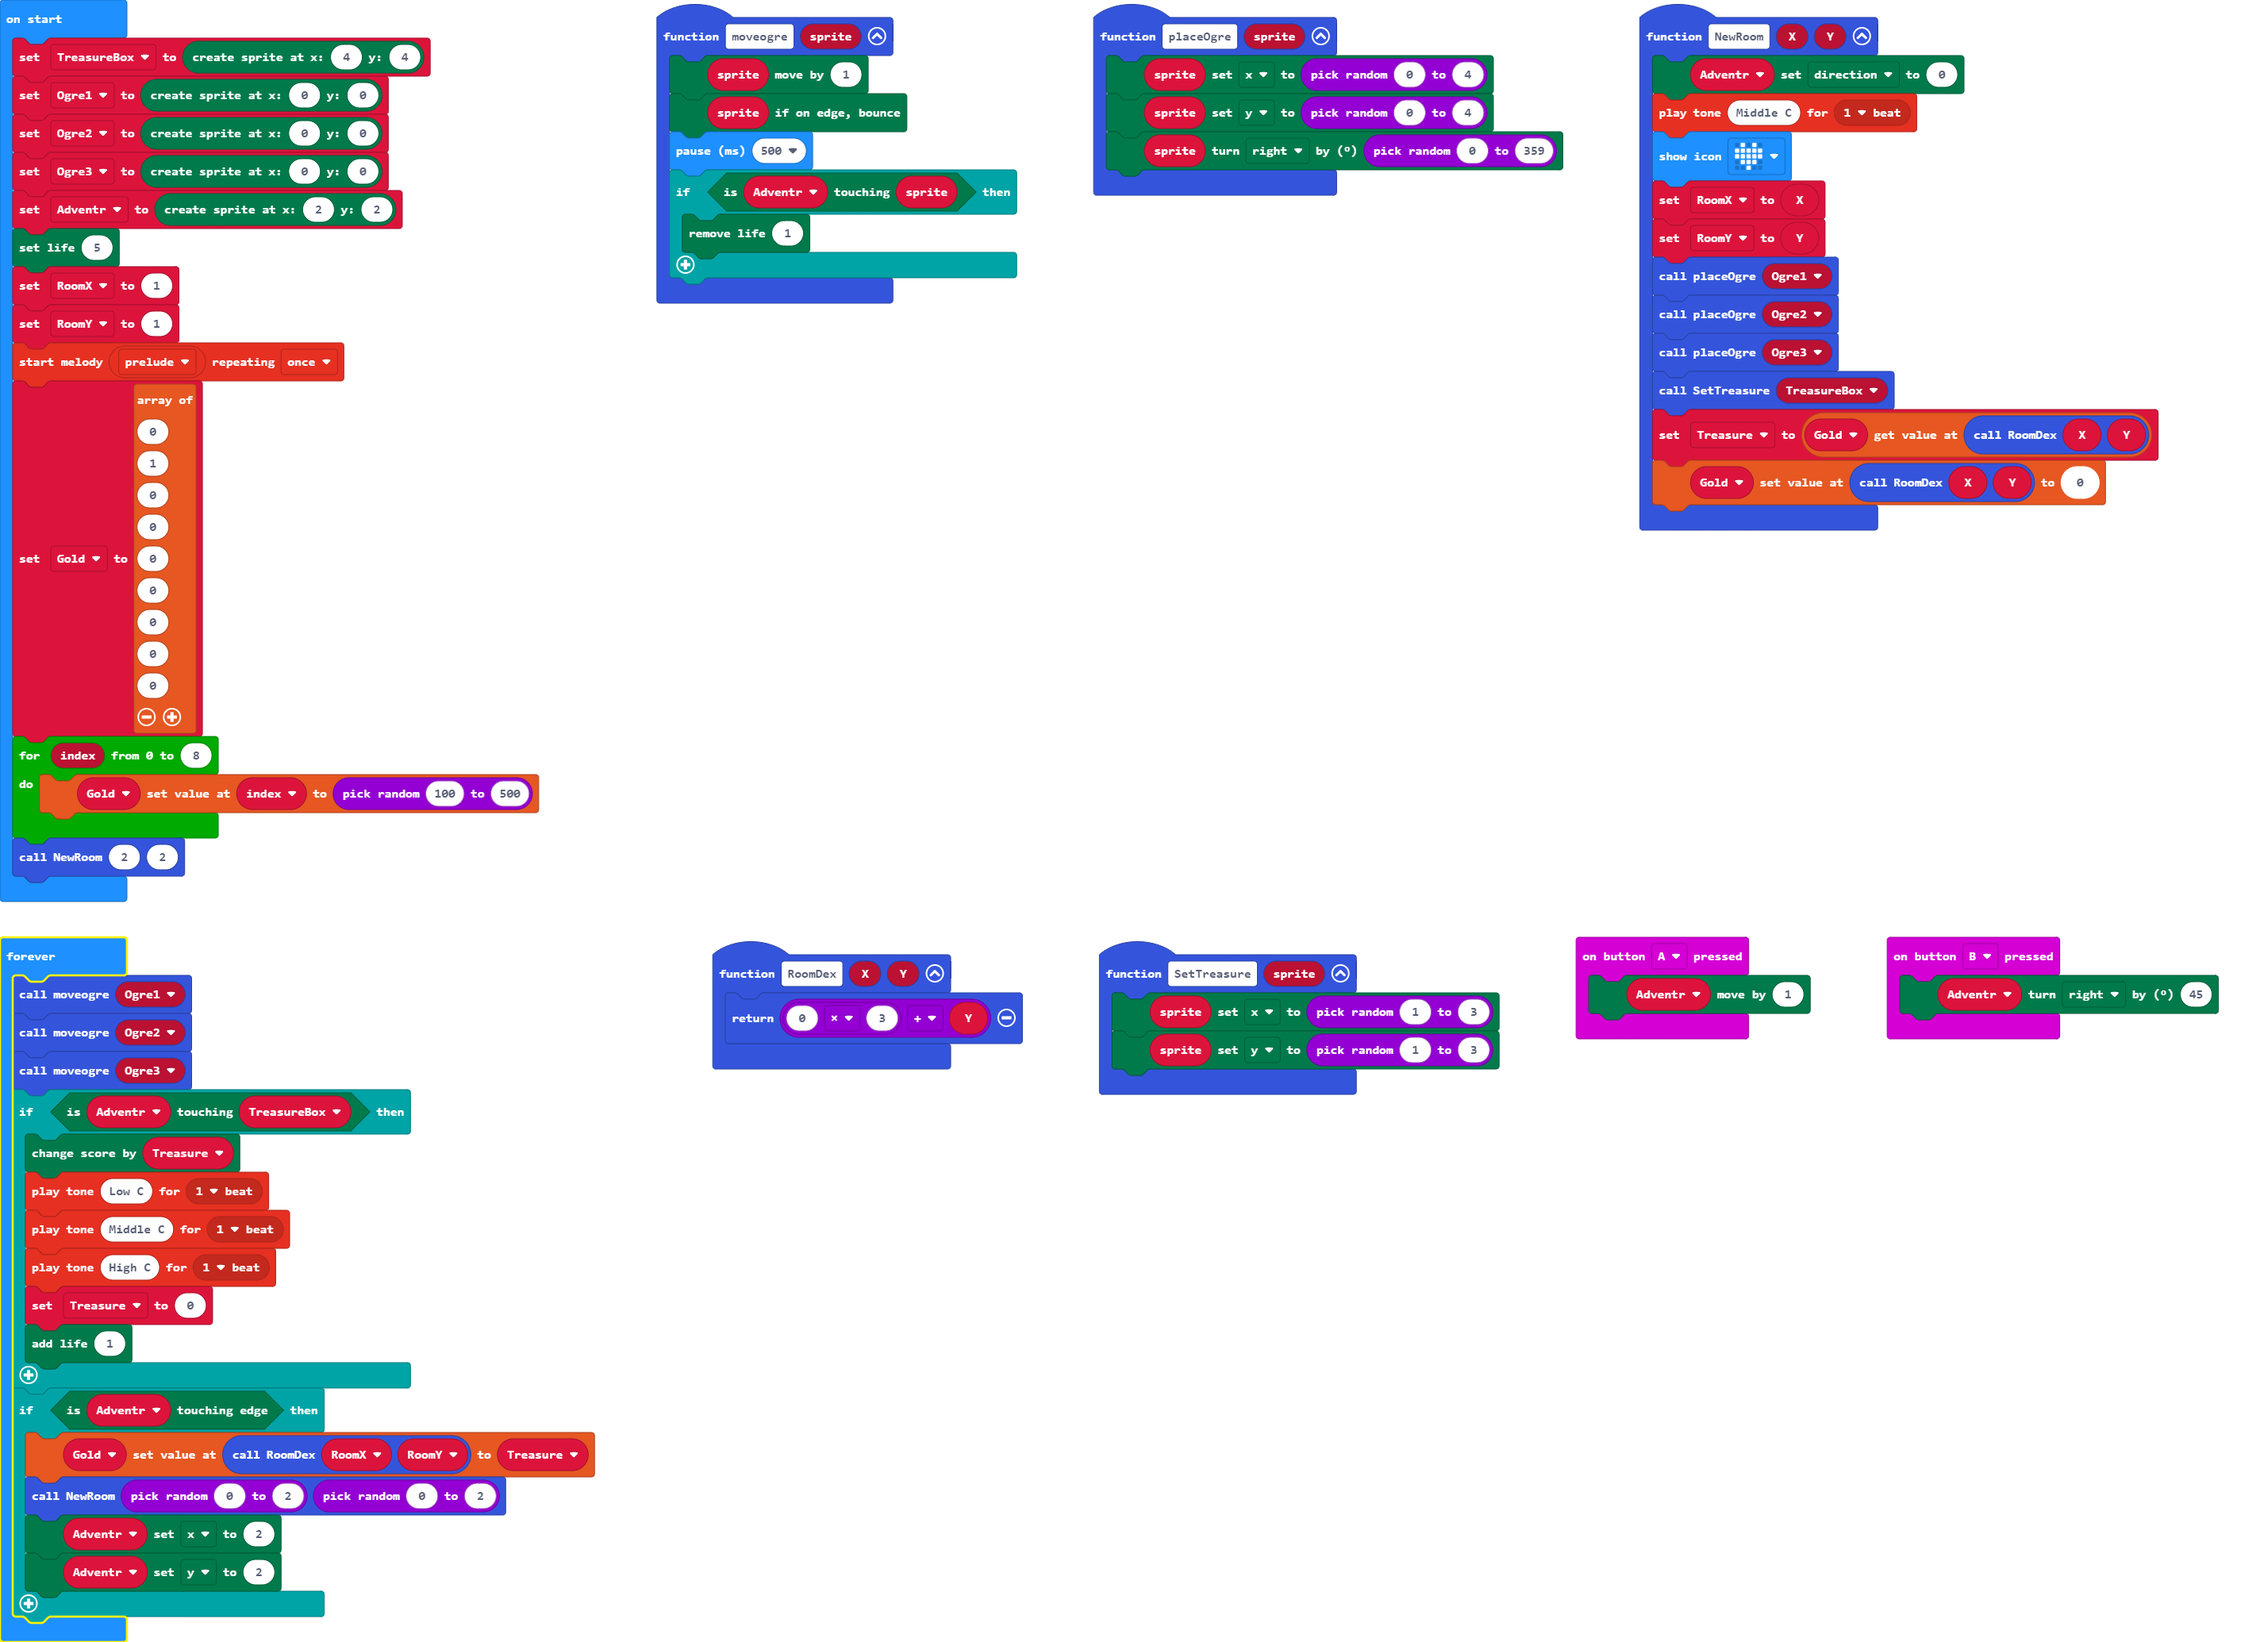
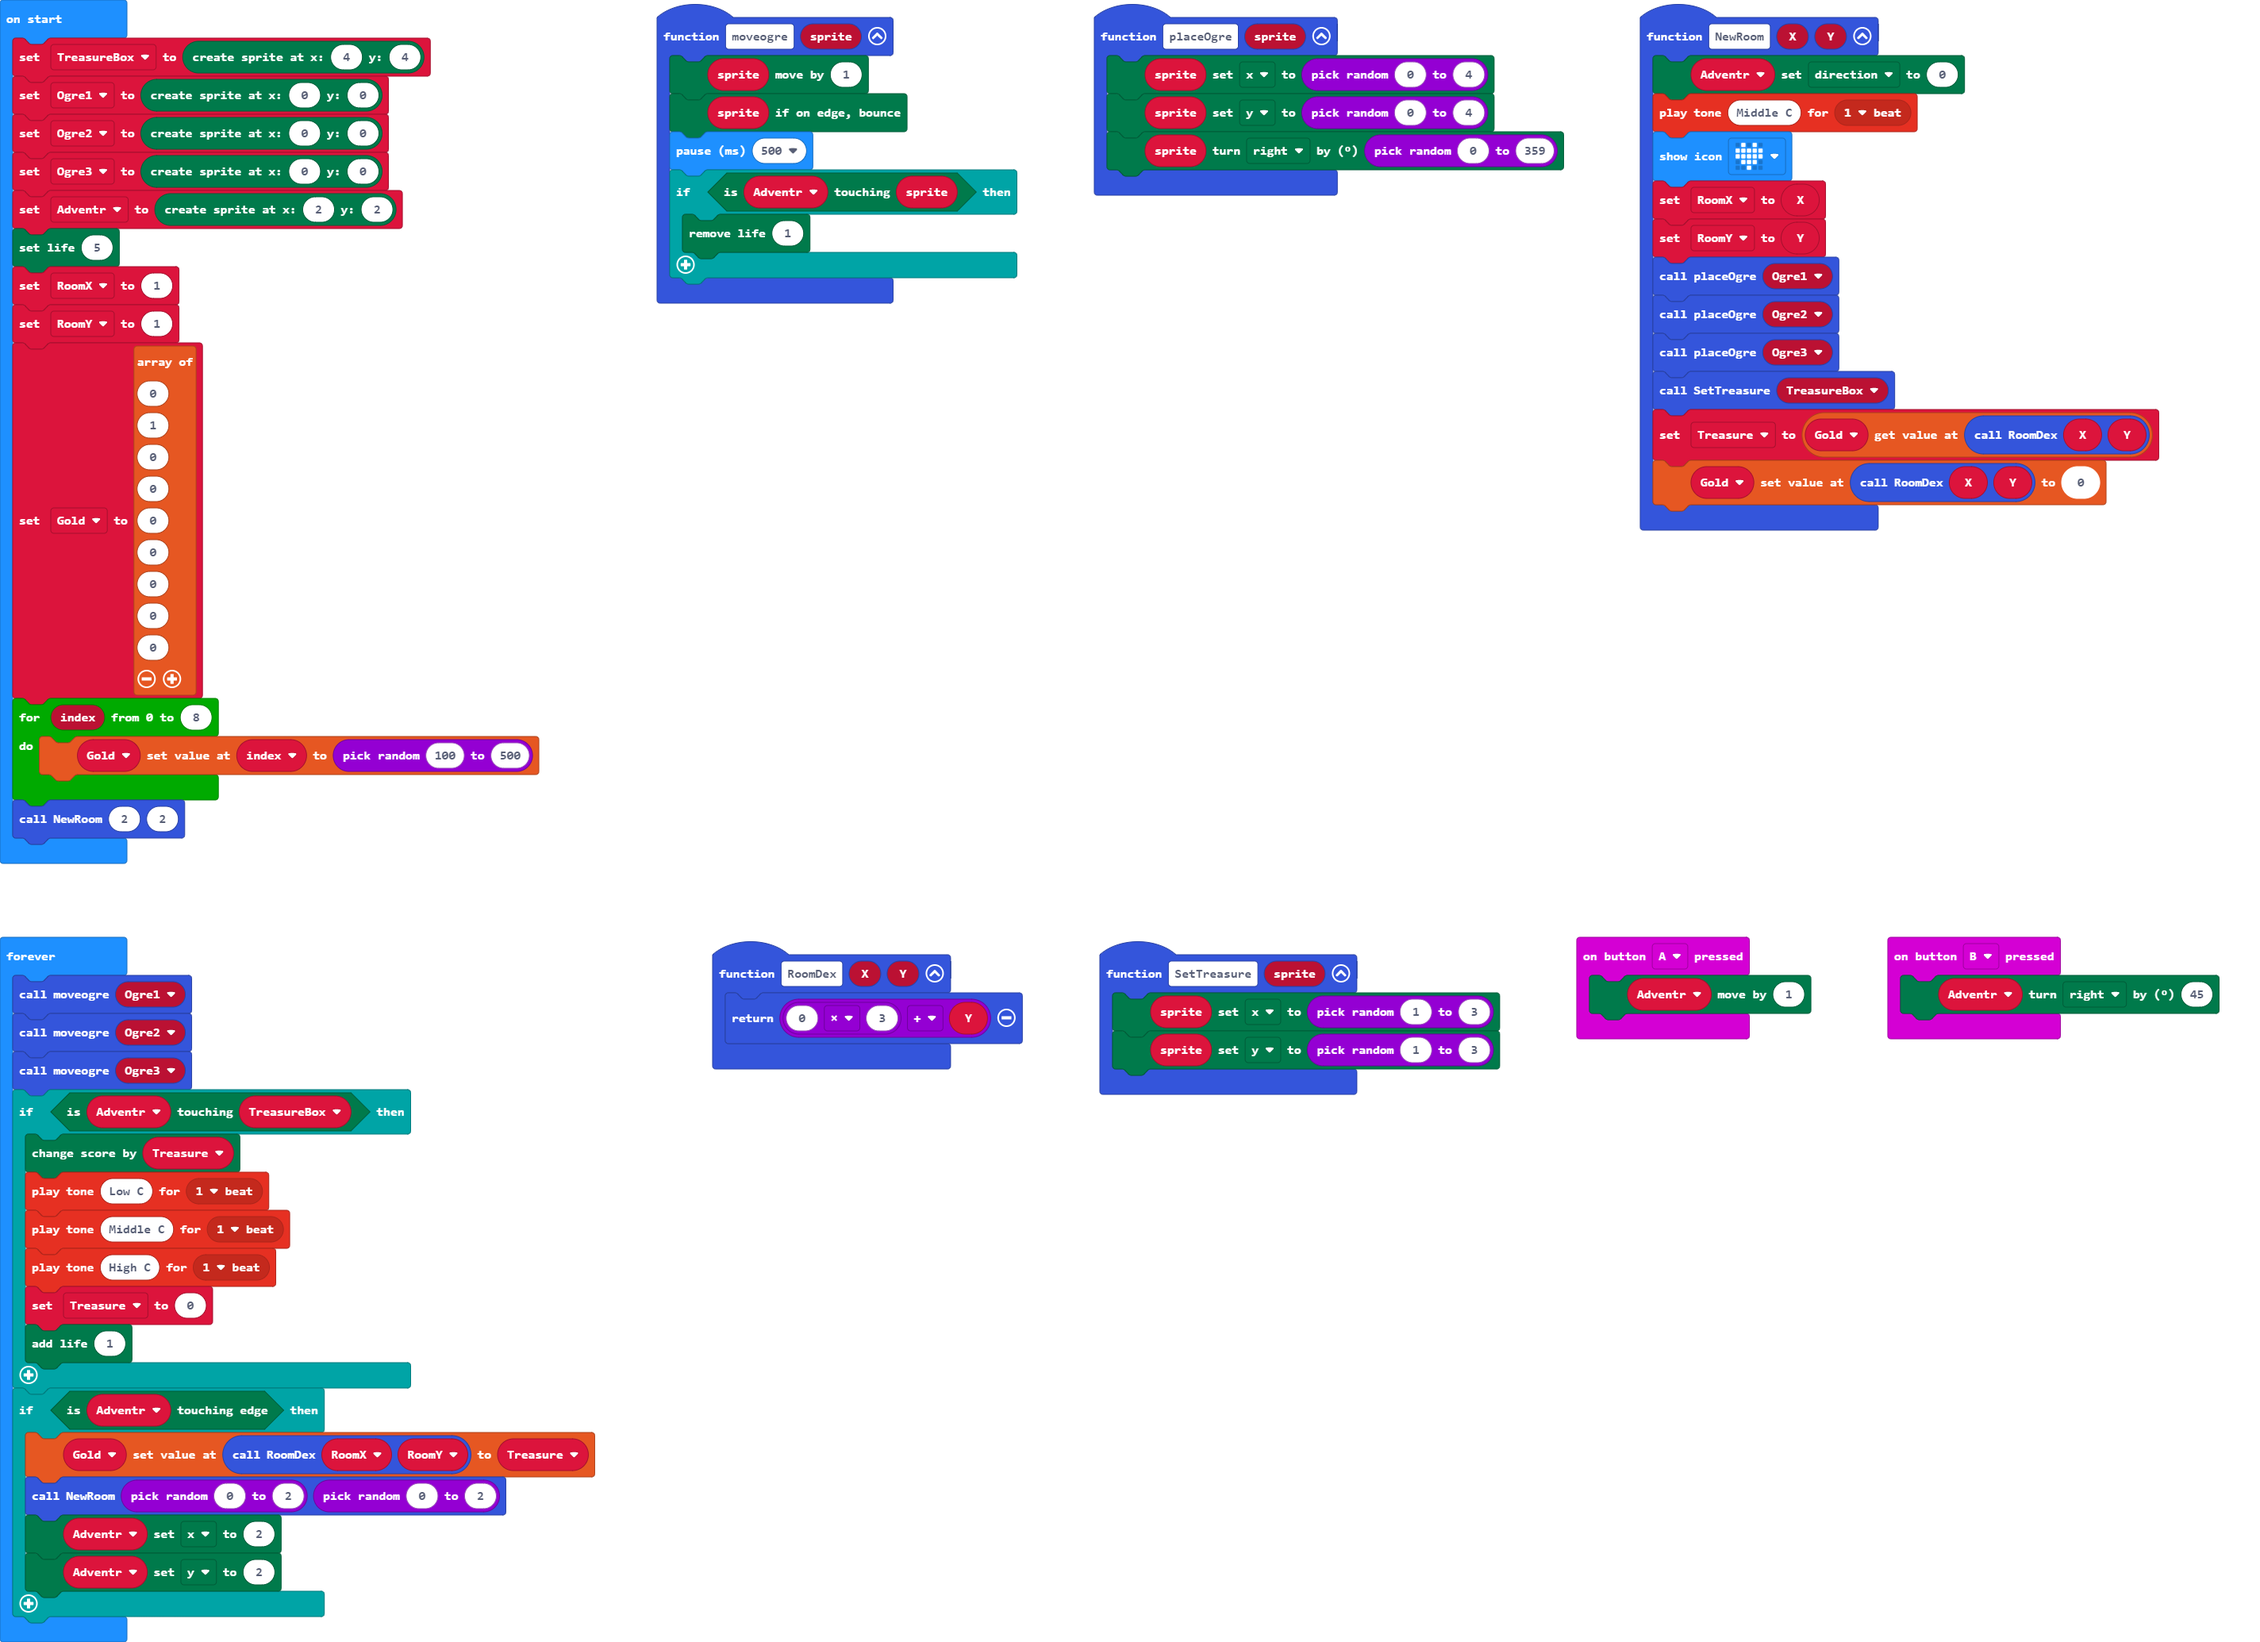
Update main.blocks, main.ts

diff --git a/main.ts b/main.ts
@@ -54,7 +54,6 @@ Adventr = game.createSprite(2, 2)
 game.setLife(5)
 RoomX = 1
 RoomY = 1
-music.startMelody(music.builtInMelody(Melodies.Prelude), MelodyOptions.Once)
 Gold = [0, 1, 0, 0, 0, 0, 0, 0, 0]
 for (let index = 0; index <= 8; index++) {
     Gold[index] = randint(100, 500)
